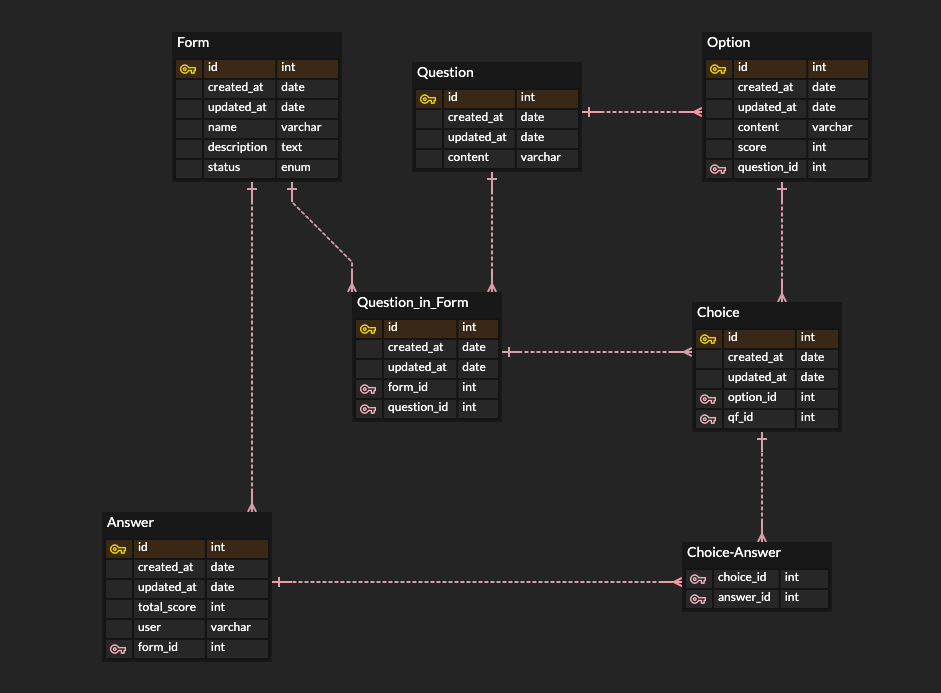
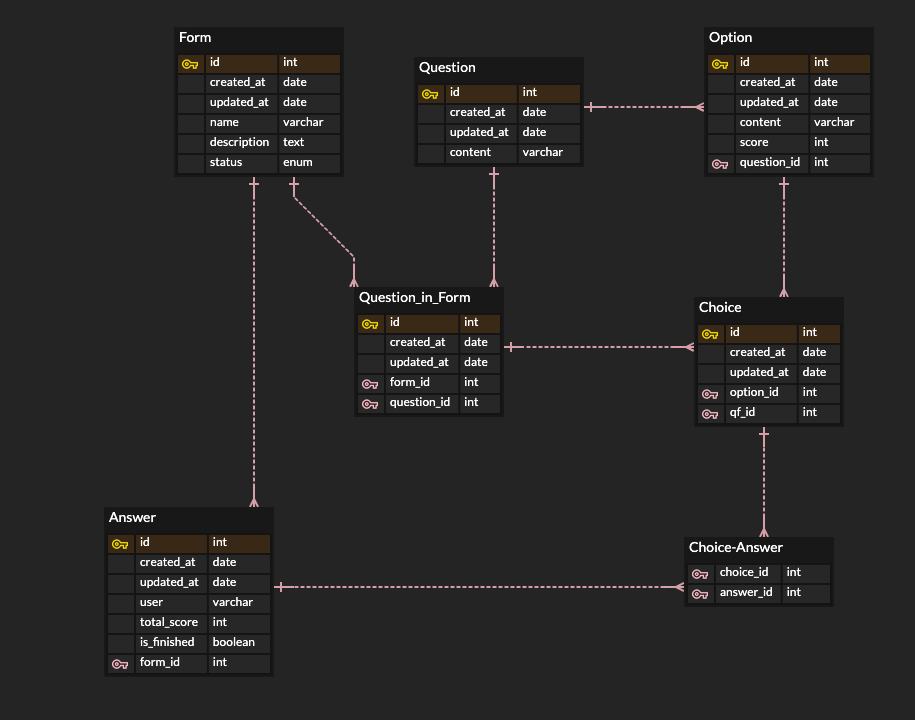
README ERD 수정

diff --git a/src/answer/answer.service.ts b/src/answer/answer.service.ts
@@ -148,10 +148,10 @@ export class AnswerService {
       const target_answer = await this.getAnswerById(id);
 
       if (!target_answer) throw new NotFoundException('존재하지 않는 답변 ID');
-      if (target_answer.isFinished === true)
+      if (target_answer.is_finished === true)
         throw new BadRequestException('이미 완료된 답변');
 
-      target_answer.isFinished = true;
+      target_answer.is_finished = true;
       target_answer.total_score = target_answer.choices.reduce(
         (total: number, choice: Choice) => (total += choice.option.score),
         0,
@@ -165,7 +165,7 @@ export class AnswerService {
 
   async getAllFinishedAnswer(): Promise<Answer[]> {
     return await this.answerRepo.find({
-      where: { isFinished: true },
+      where: { is_finished: true },
     });
   }
 }

diff --git a/src/answer/entities/answer.entity.ts b/src/answer/entities/answer.entity.ts
@@ -18,7 +18,7 @@ export class Answer extends Common {
 
   @Column({ default: false })
   @Field(() => Boolean)
-  isFinished: boolean;
+  is_finished: boolean;
 
   @ManyToMany(() => Choice, { eager: true })
   @JoinTable()
